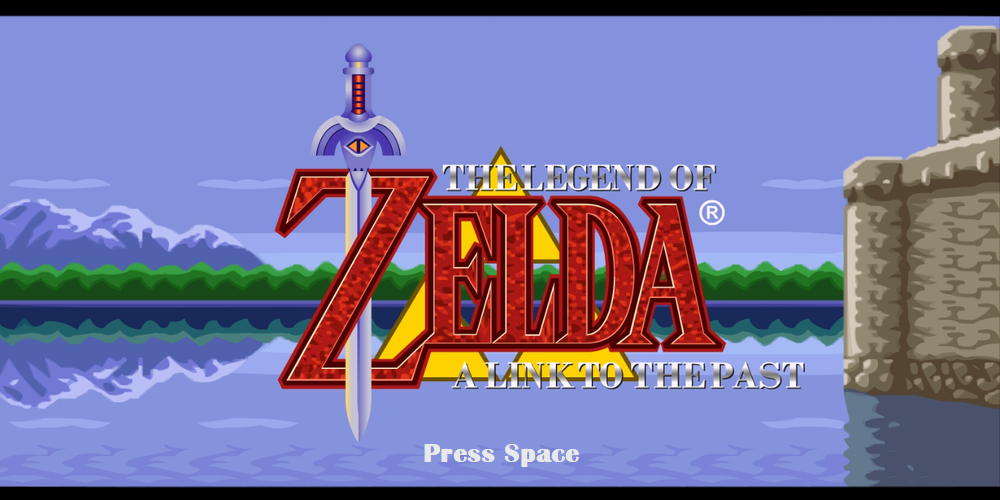
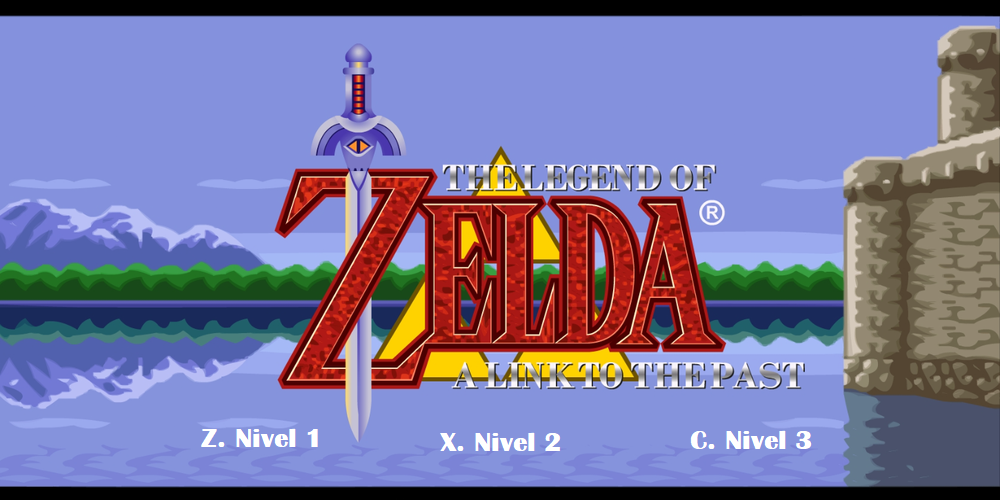
Nuevos niveles agregados al juego.

Changed region(s): [[0.403, 0.87, 0.589, 0.93], [0.186, 0.84, 0.341, 0.9], [0.682, 0.84, 0.837, 0.9]]

diff --git a/src/main.py b/src/main.py
@@ -37,8 +37,8 @@ sprites = [
   { "x": 400, "y": 425, "sprite": zelda },
   { "x": 100, "y": 300, "sprite": lady },
   { "x": 400, "y": 225, "sprite": trader },
-  { "x": 200, "y": 100, "sprite": elder },
-  { "x": 400, "y": 100, "sprite": woman },
+  { "x": 200, "y": 80, "sprite": elder },
+  { "x": 400, "y": 80, "sprite": woman },
 ]
 
 # Incialización de variables de pygame y el raycaster.
@@ -46,7 +46,7 @@ pygame.init()
 pygame_clock = pygame.time.Clock()
 screen = pygame.display.set_mode((WIDTH, HEIGHT), pygame.DOUBLEBUF | pygame.HWACCEL)
 raycaster = Raycaster(screen, walls, sprites)
-raycaster.load_map("./maps/map.txt")
+selected_level = "./maps/map.txt"
 
 # Música de fondo para el juego.
 pygame.mixer.music.load("./music/overworld.wav")
@@ -67,7 +67,14 @@ while (not player_has_started):
     if (event.type == pygame.QUIT):
       exit(0)
     if (event.type == pygame.KEYDOWN):
-      if (event.key == pygame.K_SPACE):
+      if (event.key == pygame.K_z):
+        selected_level = "./maps/map.txt"
+        player_has_started = True
+      if (event.key == pygame.K_x):
+        selected_level = "./maps/level_2.txt"
+        player_has_started = True
+      if (event.key == pygame.K_c):
+        selected_level = "./maps/level_3.txt"
         player_has_started = True
 
 # Carga de las instrucciones del juego.
@@ -87,6 +94,7 @@ while (not player_has_read_instructions):
 
 # Variable que determina si el juego está corriendo o no.
 running = True
+raycaster.load_map(selected_level)
 
 # Ciclo infinito que hace que el juego corra.
 while (running):
